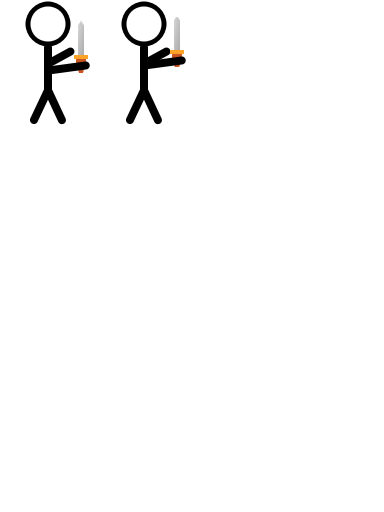
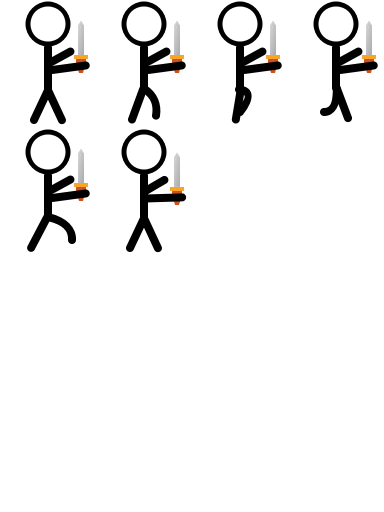
Running and Idle animation

diff --git a/Lucky Fighters/Lucky_Fighters/Player.cs b/Lucky Fighters/Lucky_Fighters/Player.cs
@@ -92,7 +92,7 @@ namespace Lucky_Fighters
             {
                 // TODO implement
                 Rectangle rect = Rectangle;
-                int paddingX = 10, paddingY = 2;
+                int paddingX = 16, paddingY = 2;
                 return new Rectangle((int)(rect.X - Origin.X + paddingX), (int)(rect.Y - Origin.Y + paddingY), rect.Width - paddingX * 2, rect.Height);
             }
         }
@@ -318,9 +318,15 @@ namespace Lucky_Fighters
             // update the current animation to match player input
             if (movement != 0)
 			{
-                if (currentAnim != "Running")
+                if (sprinting)
+                {
+                    if (currentAnim != "Sprinting")
+                        SetAndPlayAnimation("Sprinting");
+                }
+                else
 				{
-                    SetAndPlayAnimation("Running");
+                    if (currentAnim != "Running")
+                        SetAndPlayAnimation("Running");
 				}
 			}
             else
@@ -475,7 +481,7 @@ namespace Lucky_Fighters
 
         public virtual void Draw(SpriteBatch spriteBatch, GameTime gameTime)
         {
-            spriteBatch.Draw(spriteSheet, Rectangle, SourceRectangle, Color.White, 0f, Origin, flip, 0f);
+            spriteBatch.Draw(spriteSheet, Rectangle, SourceRectangle, Color.Lerp(Color.White, Game1.DefaultColors[(int)playerIndex], .8f), 0f, Origin, flip, 0f);
             DrawHealthBar(spriteBatch);
         }
 

diff --git a/Lucky Fighters/Lucky_Fighters/SwordFighter.cs b/Lucky Fighters/Lucky_Fighters/SwordFighter.cs
@@ -25,8 +25,9 @@ namespace Lucky_Fighters
 		{
             attacking = false;
             attackRectangle = new Rectangle();
-            SpriteAnimations.Add("Idle", new Animation(new int[] { 0, 1 }, 3, true));
-            SpriteAnimations.Add("Running", new Animation(new int[] { 0, 1 }, 5, true));
+            SpriteAnimations.Add("Idle", new Animation(new int[] { 0, 5 }, 4, true));
+            SpriteAnimations.Add("Running", new Animation(new int[] { 1, 4, 3, 2 }, 14, true));
+            SpriteAnimations.Add("Sprinting", new Animation(new int[] { 1, 4, 3, 2 }, 18, true));
         }
 
         public override void Attack()
@@ -36,7 +37,7 @@ namespace Lucky_Fighters
 
             attacking = true;
 
-            AddTask(new Task(.15f, () =>
+            AddTask(new Task(.1f, () =>
             {
                 Rectangle attackHitbox = GetAdjustedAttackHitbox(new Rectangle(Hitbox.Width / 3, -150, 80, 120));
                 Point center = attackHitbox.Center;

diff --git a/Lucky Fighters/Lucky_Fighters/Game1.cs b/Lucky Fighters/Lucky_Fighters/Game1.cs
@@ -65,7 +65,9 @@ namespace Lucky_Fighters
             int sh = graphics.PreferredBackBufferHeight;
             numberOfPlayerSelection = new NumberOfPlayerSelection(Services, sw, sh);
             //fighterSelection = new FighterSelection(Services, sw, sh, 2);
-            SetScreen(numberOfPlayerSelection);
+            //SetScreen(numberOfPlayerSelection);
+            // testing
+            SetScreen(new Map(Services, @"Content\Maps\map1.txt", new string[] { "swordfighter" }));
         }
 
         public void SetScreen (Screen screen)
